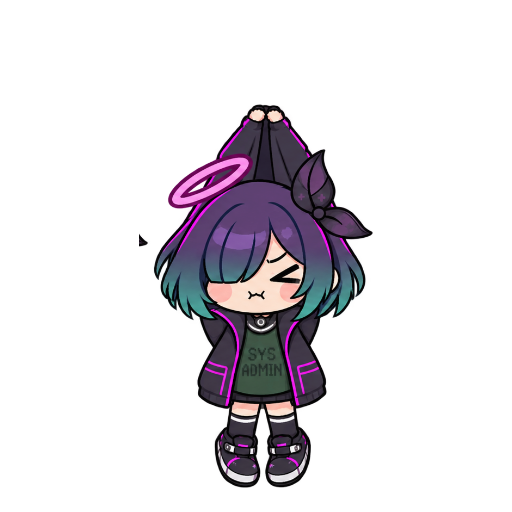
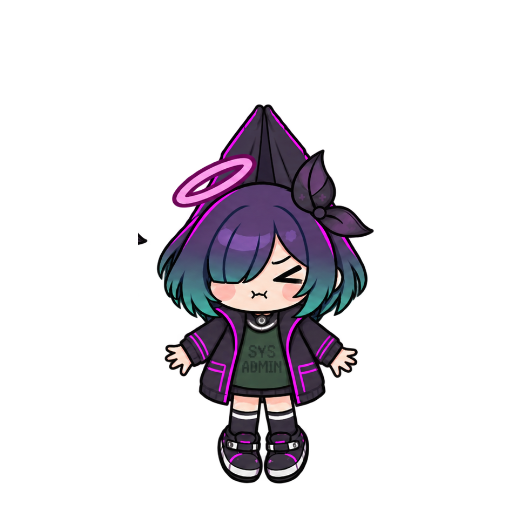
fix: make drag animation scruff-held

Changed region(s): [[0.25, 0.1875, 0.75, 0.9688]]

diff --git a/docs/design/0004-animation-surface-polish.md b/docs/design/0004-animation-surface-polish.md
@@ -29,7 +29,7 @@ created: 2026-09-20
 |---|---|---|
 | AC-1 | grounded clip의 가시 실루엣 높이는 canonical capture box 기준 ±2%이고 발 기준선 편차는 2px 이하이며 clip 전환 시 전체 크기 점프가 없다. | asset build가 alpha bounds metrics와 동일 512×512 contact sheet를 생성하고 validator/test가 편차를 검사한다. |
 | AC-2 | idle은 비균일 squash 없이 재생되고, walk는 contact→down→passing→up 순서와 반대 팔 스윙을 가지며 idle↔walk 사이에 turn-in/turn-out 전환이 존재한다. | recipe/clip 순서 테스트와 contact sheet 및 실제 재생 육안 검수. |
-| AC-3 | drag_dangle은 양팔이 모든 프레임에 보이고 frame duration이 160ms 이상이며, drop_land 접지 후 회복은 600ms 이상 재생된다. | pack metadata 테스트, alpha/contact sheet 육안 검수, 실제 drag/drop 확인. |
+| AC-3 | drag_dangle은 덜미의 단일 grab anchor 아래에서 양손이 고정점과 분리된 채 서로 반대 위상으로 휘적이고, 양팔이 모든 프레임에 보이며 frame duration이 160ms 이상이다. drop_land 접지 후 회복은 600ms 이상 재생된다. | pack metadata 테스트, alpha/contact sheet 육안 검수, 실제 drag/drop 확인. |
 | AC-4 | drag release와 자율 보행은 현재 X에서 아래로 처음 만나는 visible top-level window 상단 또는 taskbar 상단을 지면으로 사용하며 앱 자신의 HWND는 제외한다. | 합성 surface fixture 단위 테스트와 Windows adapter smoke/manual test. |
 | AC-5 | surface가 없거나 Win32 조회가 실패해도 work area 하단을 지면으로 사용하고 capture/runtime 상태가 남지 않는다. | provider fault fixture와 capture-lost 상태 전이 테스트. |
 

diff --git a/asset/bolttagu/derived/model/generation.md b/asset/bolttagu/derived/model/generation.md
@@ -127,3 +127,20 @@ to hand, with both hands gripping the gathered hood above the head. Sequence slo
 center stretch, slow right swing and center recoil. Preserve identity, outfit, palette and scale;
 no cursor, external hand, rope, missing limbs, motion marks, background, UI or watermark.
 ```
+
+## Drag dangle strip v3
+
+- Generator: built-in image generation tool
+- Output: `drag-dangle-strip-v3.png`
+- Status: candidate pending human animation review
[1 lines of base64/hex data omitted]
+
+```text
+Redesign the canonical Bolttagu dangling loop into exactly four ordered full-body frames. Hold
+the character from one fixed point at the back of the hoodie collar/scruff, with a small gathered
+fabric fold but no visible hand, cursor, hook or rope. Keep both complete arms and hands away from
+the anchor: left arm up/right arm down, center pass, right arm up/left arm down, center recovery.
+Let the body and legs trail below the fixed collar point with a slow weighty pendulum motion.
+Preserve identity, outfit, palette, scale and transparent background; avoid missing or duplicate
+limbs, overhead gripping, crop, labels, UI, motion marks and watermark.
+```
